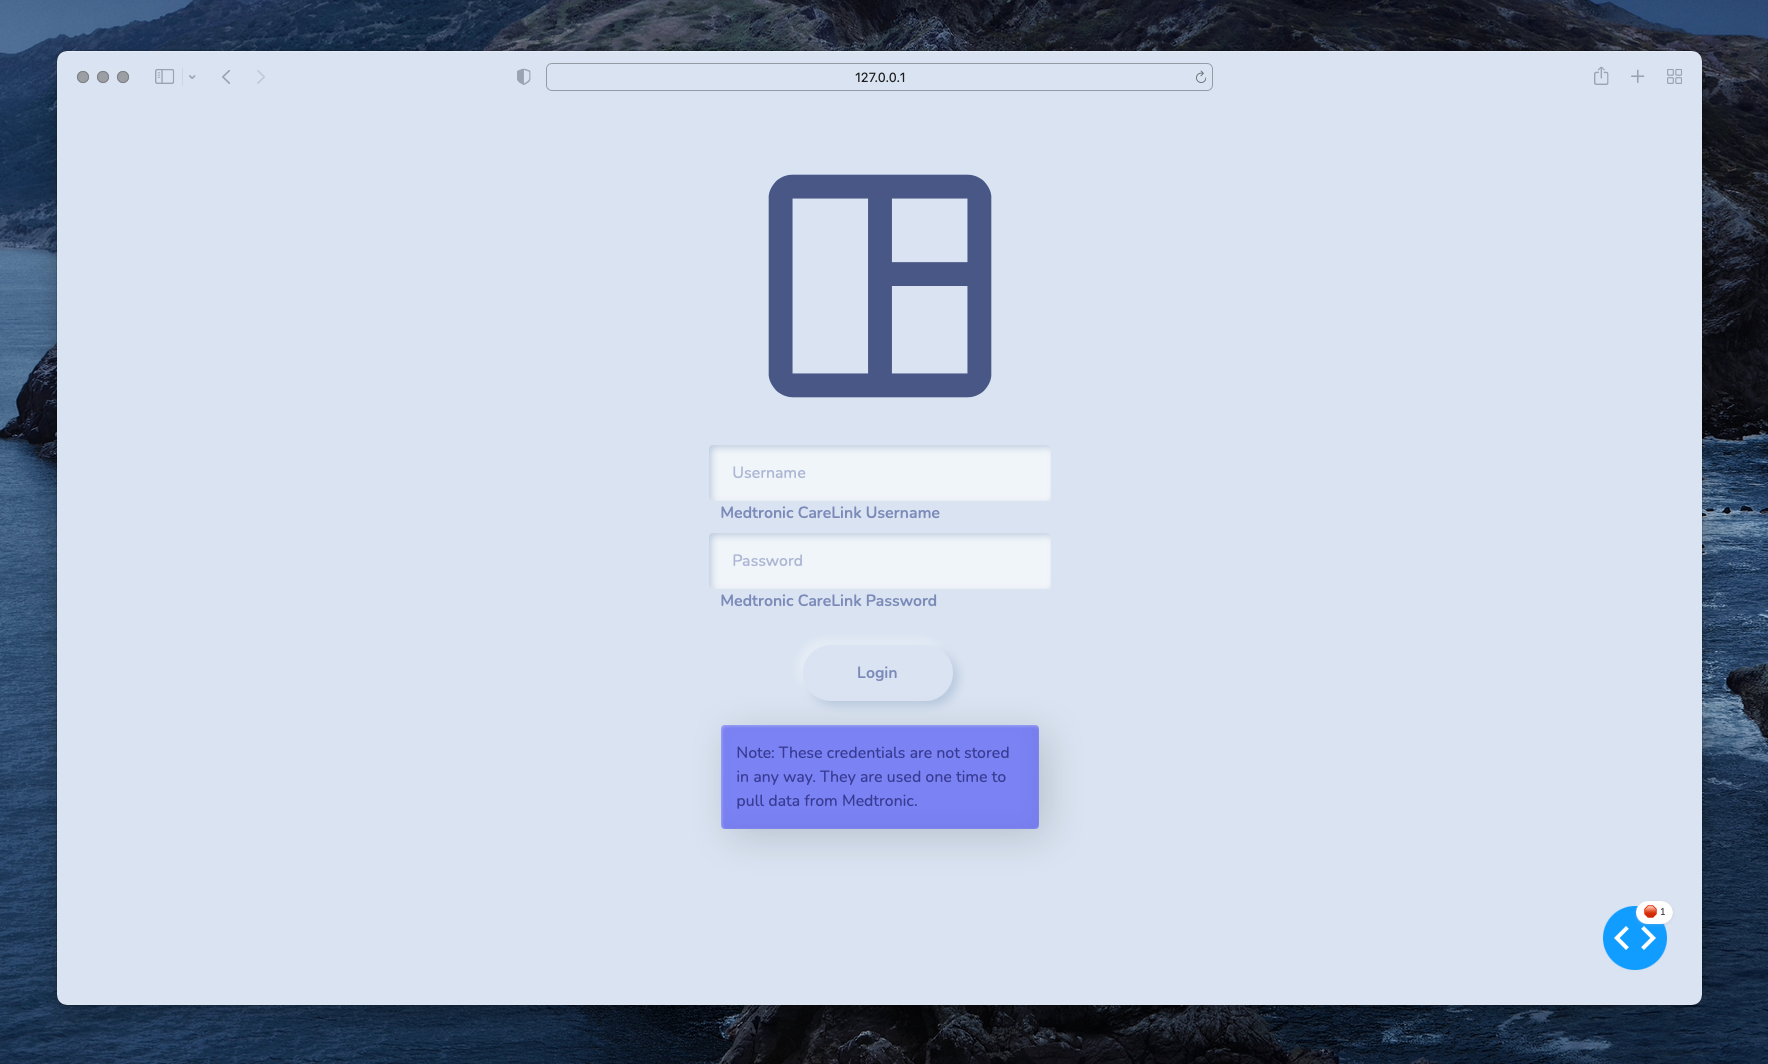
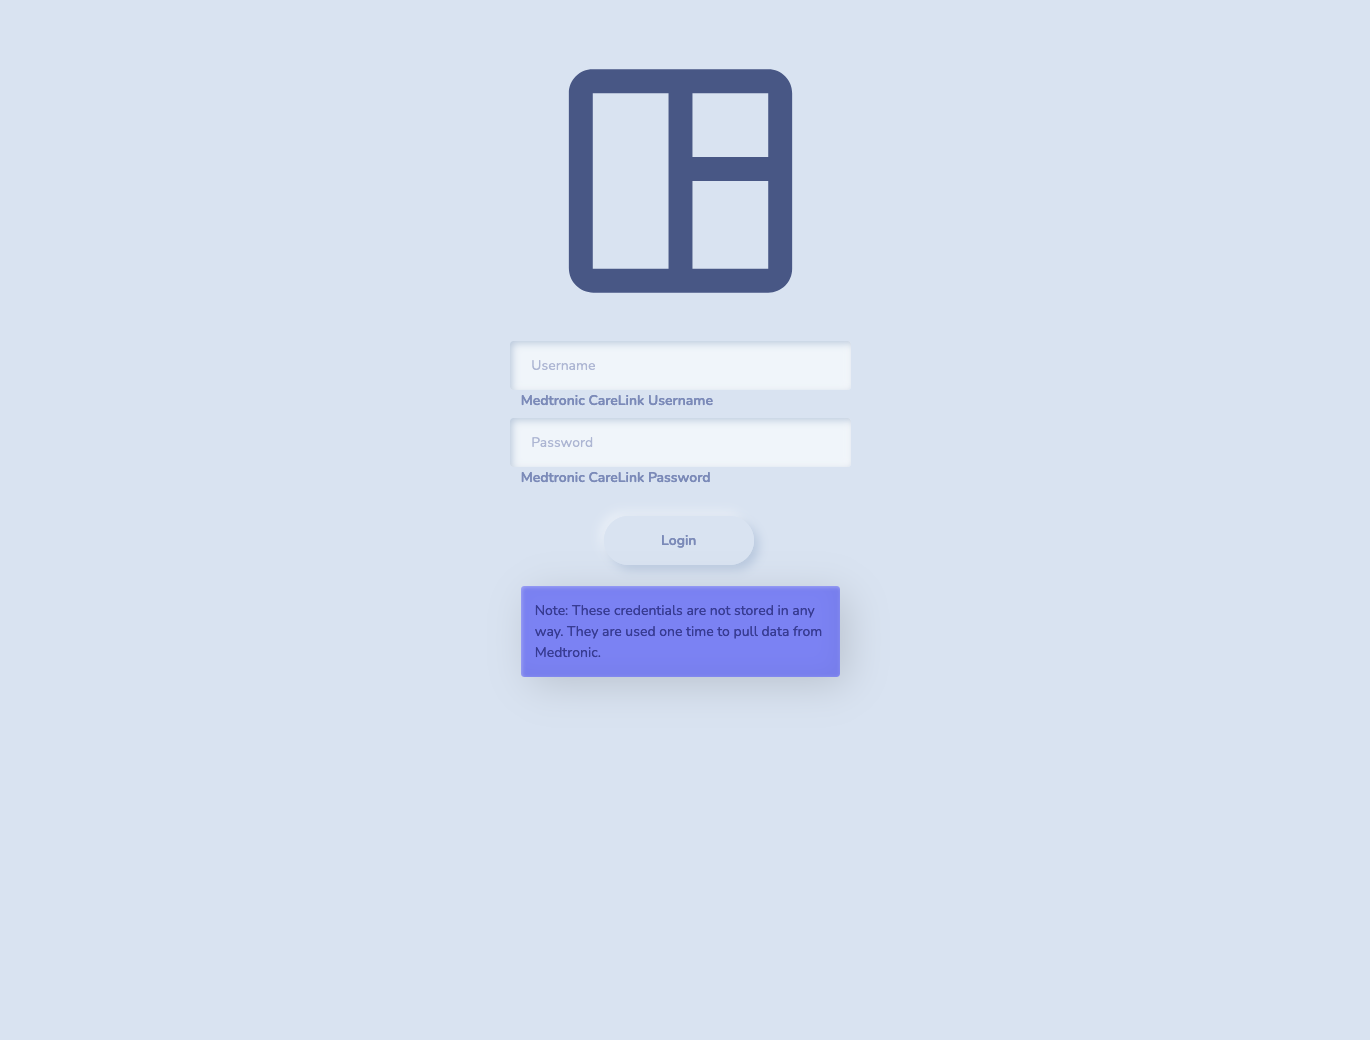
Added new screenshots and updated documentation.

Changed region(s): [[0.0, 0.0, 1.0, 1.0], [0.3679, 0.4923, 0.6131, 0.8]]

diff --git a/README.md b/README.md
@@ -17,7 +17,7 @@ The major motivation for the dashboard is to, at a glance, have an understanding
 
 ## Important notes
 
-First and foremost, while this data is sourced directly from Medtronic's CareLink service which is synced with an insulin pump and the Medtronic CareLink app, *these metrics and visualizations are for reference purposes only and are not intended to justify medical decisions*. **Always consult your endocrinologist before making any changes to your diabetes care routine.**
+First and foremost, while this data is sourced directly from Medtronic's CareLink service which is synced with an insulin pump and the Medtronic CareLink app, *these metrics and visualizations are for reference purposes only and are not intended to justify medical decisions*. **Always consult an endocrinologist before making any changes to a diabetes care routine.**
 
 - **Projected A1C** - The metric card containing projected A1C is not an accurate estimation or representation of true A1C given that only 7 days of blood glucose data is available. It is only a representation of an A1C value of the previous 7 days and is intended to show the user a projection of an A1C value should the previous 7 days be characteristic of the next 3 months.
 
@@ -45,11 +45,14 @@ Desired flow (to be completed):
 
 ## Screenshots
 ![Login Page](docs/images/login.png)
-![Main Dashboard*](docs/images/main.png) 
+![Main Dashboard - Weekly Glucose Overview](docs/images/main_wgo.png) 
+![Main Dashboard - Weekly Statistics Overview](docs/images/main_wso.png)
+![Main Dashboard - Daily Overview](docs/images/main_do.png)
+![Main Dashboard - Other Overview](docs/images/main_other.png) 
+
 *WIP
 
 ## To Do
-- Third View will become insulin and carb overview.
 - Make Dockerfile
 
 --------
